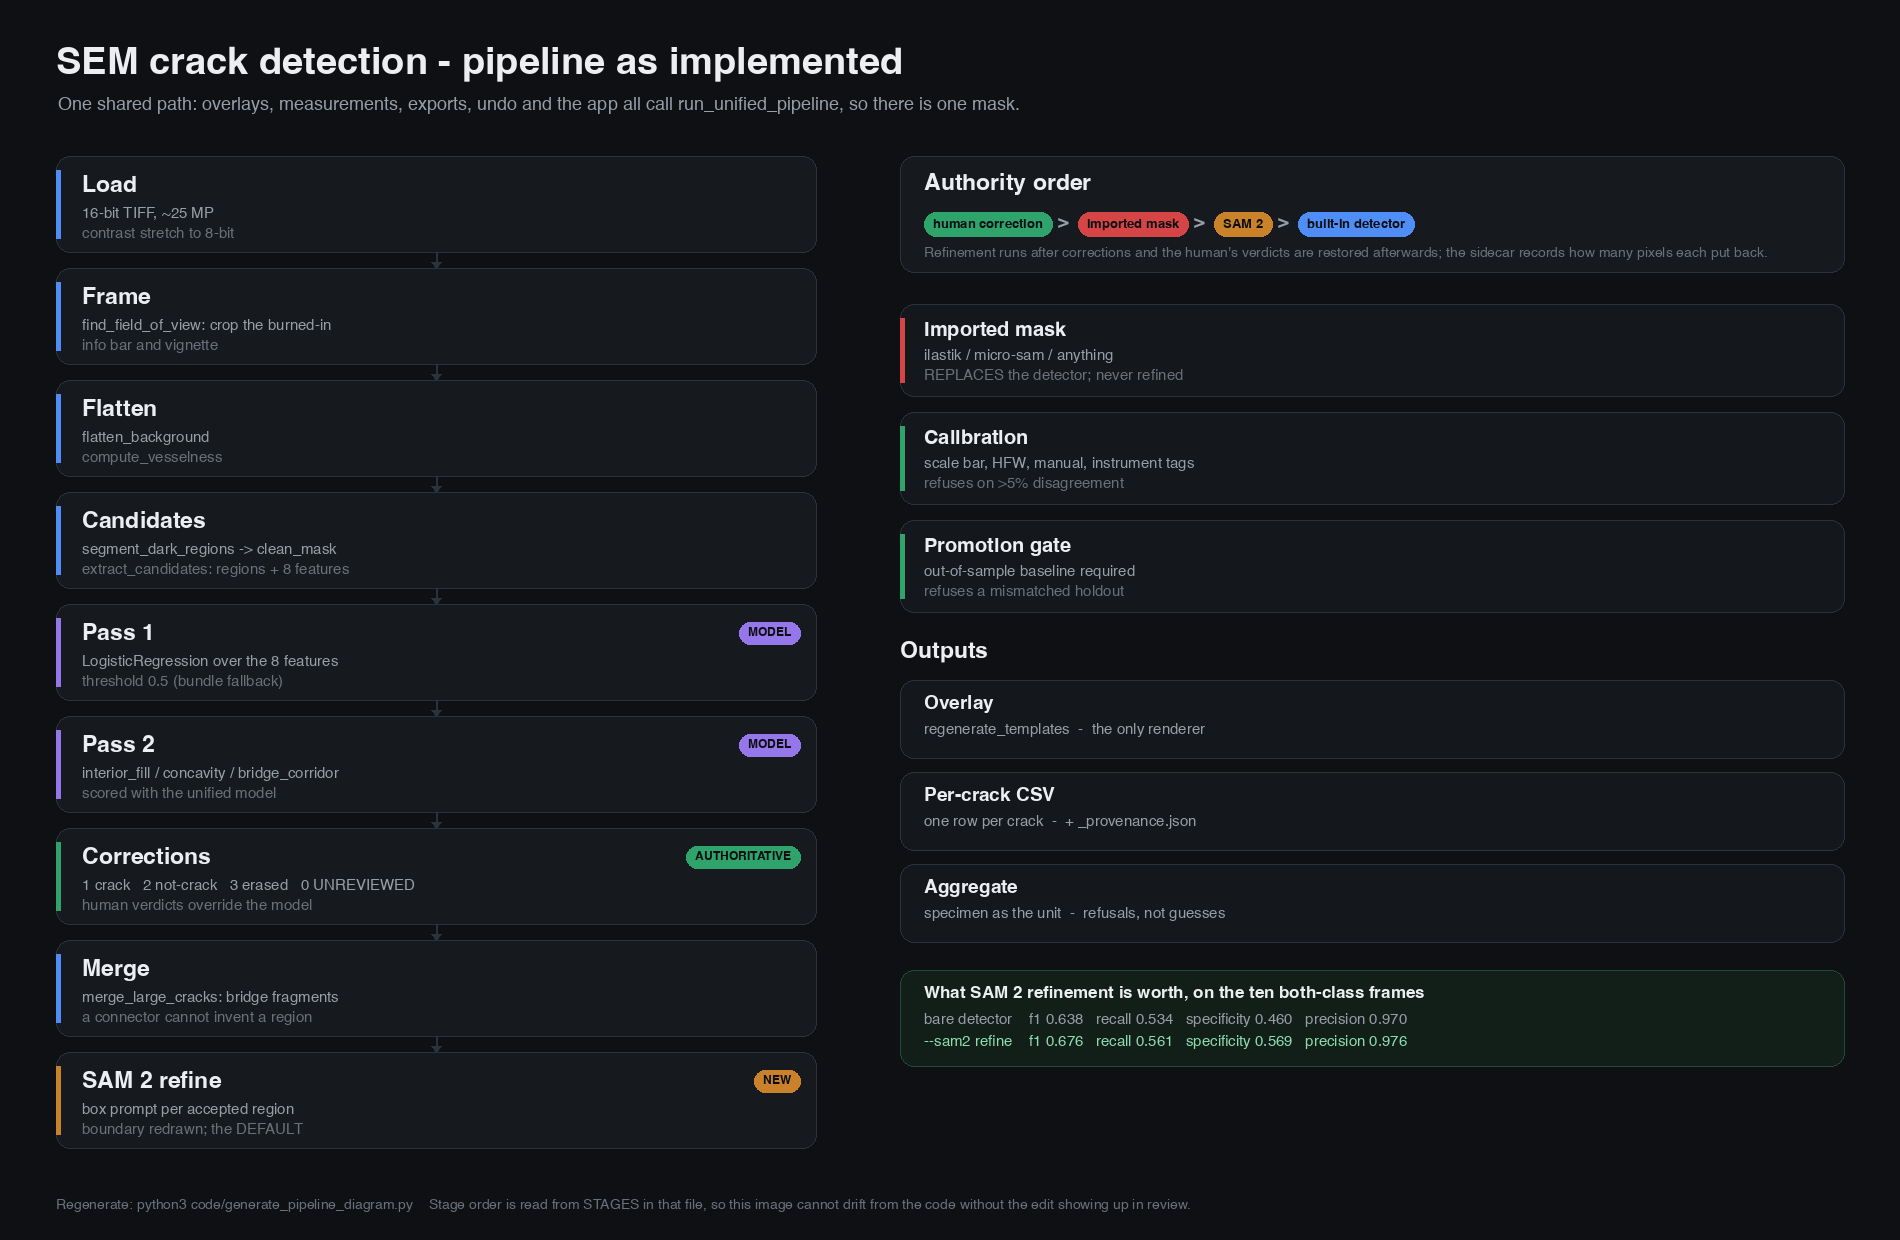
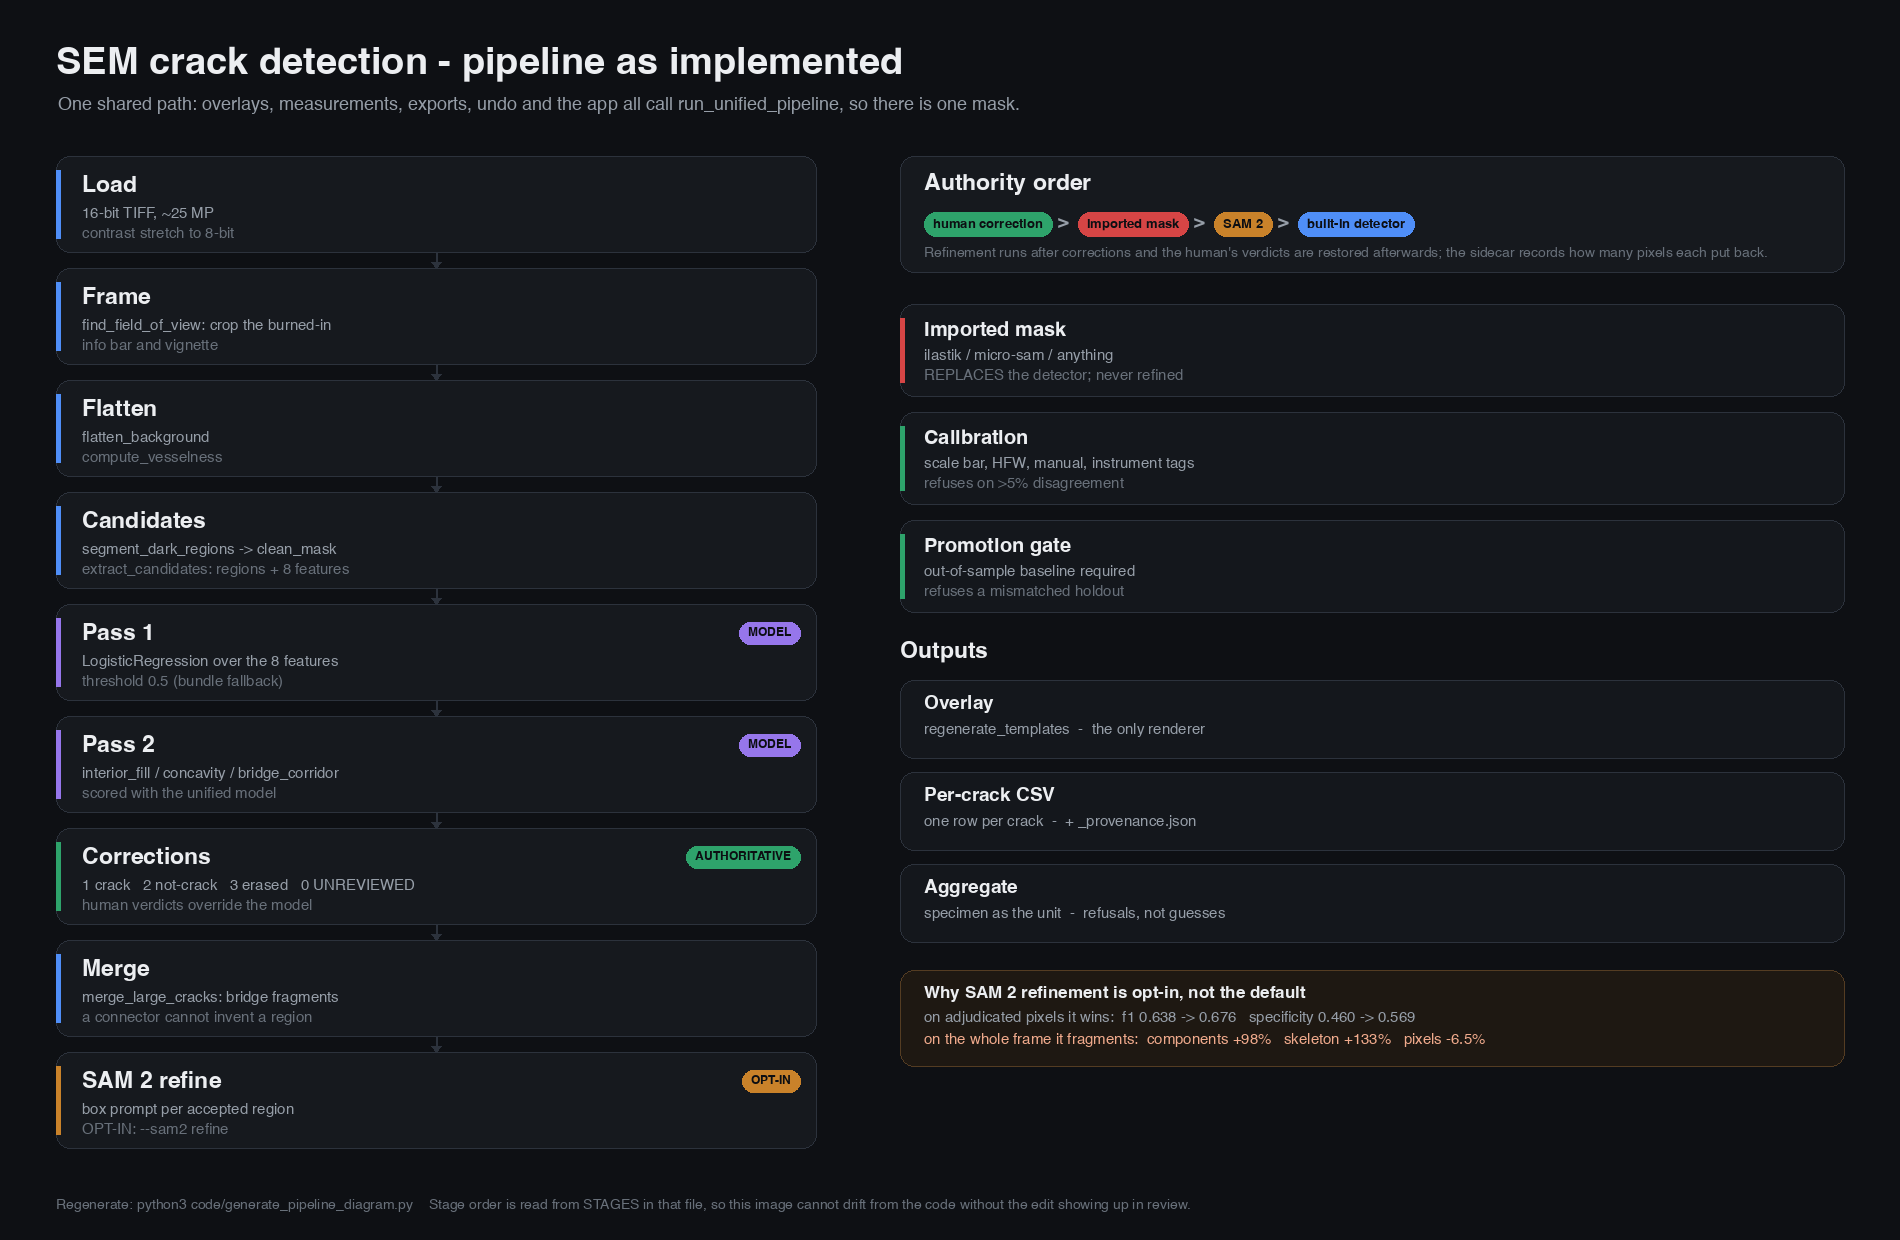
Revert SAM 2 from the default: it wins on 8% of the frame and fragments the other 92%
A user looked at the overlays and said they had got worse. They were right, and the
metric that said otherwise was measured on the wrong region.

SAM 2 refinement was made the default on a four-metric win -- f1 0.638 -> 0.676,
recall 0.534 -> 0.561, specificity 0.460 -> 0.569, precision 0.970 -> 0.976 -- all
scored on ADJUDICATED pixels, which are about 8% of a frame. An overlay is all of
it. Measured on 260708_316_H_b2_front_CBS_002:

    crack pixels            335,228 -> 313,396    -6.5%
    connected components        102 -> 202        +98%
    skeleton length px        9,323 -> 21,732     +133%

Fewer pixels, twice the components, more than double the skeleton. Refinement is
not tightening boundaries; it is making solid crack regions lacy and breaking them
apart. Per region the erosion is near-universal: -6.4% on the main through-crack
and up to -41.7% on smaller ones, negative in every size bucket.

WHY f1 ROSE ANYWAY, which is the part worth keeping. Trimming a region removes
false positives from the small marked not-crack pool faster than it loses true
positives from the marked crack pool, so specificity climbs 0.11 and carries the f1
with it. Crack COUNT and crack LENGTH -- the two headline quantities this tool
exists to produce -- both get worse at the same time, and neither appears in the
objective. That is this project's own thesis arriving at its own default: a proxy
improved while the result degraded, and nothing in the artefact said so.
[…]

Changed region(s): [[0.4968, 0.7968, 0.7763, 0.8581], [0.0621, 0.8887, 0.1553, 0.9194], [0.3726, 0.8581, 0.4037, 0.8887]]

diff --git a/interior_active_learning/code/experiments/sam2_hybrid.py b/interior_active_learning/code/experiments/sam2_hybrid.py
@@ -90,6 +90,23 @@ def _without_human_input():
         up.load_correction_mask, up.load_hard_overrides = a, b
 
 
+def _shape_cost(pred):
+    """What an adjudicated-pixel score cannot see: is the mask solid or lacy?
+
+    This exists because the four-metric comparison below was used to make SAM 2 the default,
+    and it was wrong to. Refinement raised f1 while nearly doubling the number of connected
+    components and more than doubling total skeleton length -- turning solid crack regions
+    into ragged, broken ones. Crack COUNT and crack LENGTH are the two headline quantities
+    this tool produces, and both degrade in a way f1 on 8% of the frame is blind to. Any
+    future comparison has to report these beside the metrics.
+    """
+    from skimage import measure as _m, morphology as _mo
+    lab = _m.label(pred, connectivity=2)
+    return {"components": int(lab.max()),
+            "skeleton_px": int(_mo.skeletonize(pred).sum()),
+            "predicted_px": int(pred.sum())}
+
+
 def _score(pred, crack, neg):
     tp = int((pred & crack).sum()); fn = int((~pred & crack).sum())
     fp = int((pred & neg).sum());   tn = int((~pred & neg).sum())
@@ -226,7 +243,7 @@ def run(frames, model_id, max_candidates, shard=0, nshard=1):
                "seconds_refine": t_ref, "seconds_all": t_all, "arms": {}}
         for k, pm in arms.items():
             s = _score(pm, crack, neg)
-            s["predicted_px"] = int(pm.sum())
+            s.update(_shape_cost(pm))
             rec["arms"][k] = s
             print(f"     {k:14s} f1 {s['f1']:.3f}  recall {s['recall']:.3f}  "
                   f"spec {s['specificity']:.3f}  prec {s['precision']:.3f}", flush=True)
@@ -271,13 +288,20 @@ def report(model_id=None):
         print(f"  {r['image'][:30]:30s} "
               + " ".join(f"{r['arms'][a]['f1']:11.3f}" for a in ARMS))
     print(f"\n  {'arm':14s} {'f1':>7s} {'recall':>7s} {'spec':>7s} {'prec':>7s} "
-          f"{'pred px':>12s}")
+          f"{'pred px':>12s} {'compnts':>9s} {'skel px':>11s}")
+    print(f"  (components and skeleton are the columns that showed refinement fragments the "
+          f"mask; f1 alone made it look like a clear win)")
     means = {}
     for a in ARMS:
         f = lambda k: float(np.mean([r["arms"][a][k] for r in uniq]))
         means[a] = {k: f(k) for k in ("f1", "recall", "specificity", "precision")}
+        for k in ("components", "skeleton_px"):
+            if k in uniq[0]["arms"][a]:
+                means[a][k] = f(k)
         print(f"  {a:14s} {f('f1'):7.3f} {f('recall'):7.3f} {f('specificity'):7.3f} "
-              f"{f('precision'):7.3f} {f('predicted_px'):12,.0f}")
+              f"{f('precision'):7.3f} {f('predicted_px'):12,.0f}"
+              + (f" {f('components'):9,.0f} {f('skeleton_px'):11,.0f}"
+                 if "components" in means[a] else ""))
     best = max(ARMS, key=lambda a: means[a]["f1"])
     d = means[best]["f1"] - means["pipeline"]["f1"]
     print(f"\n  Best f1: {best} ({means[best]['f1']:.3f}), "

diff --git a/interior_active_learning/code/unified_pipeline.py b/interior_active_learning/code/unified_pipeline.py
@@ -82,9 +82,28 @@ def _load_unified_bundle():
 #: this pipeline is supposed to make impossible. EVERY decision point must honour it -- Pass 1, Pass 2's generic branch,
 #: and the interior_fill floor. A partially-applied override reports half a
 #: detector while claiming to report all of it.
-#: SAM 2 refinement of the accepted candidates' boundaries. Measured on the ten both-class
-#: frames it beats the shipped detector on f1, recall, specificity AND precision, so it is ON
-#: by default -- a Pareto improvement is not something to hide behind a flag.
+#: SAM 2 refinement of the accepted candidates' boundaries. OFF by default, and the reason is
+#: a correction rather than caution.
+#:
+#: It was briefly the default on the strength of beating the bare detector on f1, recall,
+#: specificity and precision over the ten both-class frames. Those metrics are scored on
+#: ADJUDICATED pixels only -- about 8% of a frame -- and they are blind to the thing a person
+#: looking at an overlay sees first. Measured on 260708_316_H_b2_front_CBS_002:
+#:
+#:     crack pixels        335,228 -> 313,396   -6.5%
+#:     connected components    102 -> 202       +98%
+#:     skeleton length       9,323 -> 21,732    +133%
+#:
+#: Fewer pixels, twice the components, and more than double the skeleton: refinement is not
+#: tightening boundaries, it is making solid crack regions lacy and breaking them apart. The
+#: f1 improved anyway because trimming a region removes false positives from the small marked
+#: not-crack pool faster than it loses true positives from the marked crack pool -- so the
+#: proxy rose while the result got worse. A user reported the overlays looked worse and was
+#: right; the metric that said otherwise was measured on the wrong region.
+#:
+#: Kept available because prompting SAM 2 with candidate boxes clearly does something real,
+#: and because the measurement layer is meant to accept a better mask from anywhere. What it
+#: needs before it could be a default is an objective that counts fragmentation.
 #:
 #: Applied HERE, in the one function every consumer goes through, because overlays
 #: (regenerate_templates), measurements (crack_measurements), exports, undo and the app all
@@ -96,7 +115,7 @@ def _load_unified_bundle():
 #: Degrades to the shipped detector, on the record, if torch/transformers or the checkpoint
 #: are unavailable: a detector that crashes is worse than one that does not improve.
 _SAM2_ENV = os.environ.get("SEMCRACK_SAM2")
-SAM2_MODE = "refine" if _SAM2_ENV is None else (_SAM2_ENV or "off")
+SAM2_MODE = _SAM2_ENV if _SAM2_ENV else "off"
 
 THRESHOLD_OVERRIDE = None
 

diff --git a/code/generate_pipeline_diagram.py b/code/generate_pipeline_diagram.py
@@ -60,7 +60,7 @@ STAGES = [
     ("Pass 2", ["interior_fill / concavity / bridge_corridor", "scored with the unified model"], VIOLET, "model"),
     ("Corrections", ["1 crack   2 not-crack   3 erased   0 UNREVIEWED", "human verdicts override the model"], GREEN, "human"),
     ("Merge", ["merge_large_cracks: bridge fragments", "a connector cannot invent a region"], BLUE, None),
-    ("SAM 2 refine", ["box prompt per accepted region", "boundary redrawn; the DEFAULT"], AMBER, "new"),
+    ("SAM 2 refine", ["box prompt per accepted region", "OPT-IN: --sam2 refine"], AMBER, "opt"),
 ]
 
 OUTPUTS = [
@@ -108,8 +108,8 @@ def main():
         d.text((x0 + 26, y + 50), lines[0], font=font(15), fill=DIM)
         d.text((x0 + 26, y + 70), lines[1], font=font(15), fill=FAINT)
         if tag:
-            label = {"model": "MODEL", "human": "AUTHORITATIVE", "new": "NEW"}[tag]
-            col = {"model": VIOLET, "human": GREEN, "new": AMBER}[tag]
+            label = {"model": "MODEL", "human": "AUTHORITATIVE", "opt": "OPT-IN"}[tag]
+            col = {"model": VIOLET, "human": GREEN, "opt": AMBER}[tag]
             t = label
             f = font(12, True)
             tw = d.textlength(t, font=f)
@@ -158,15 +158,15 @@ def main():
 
     # ---- measured footnote ----
     fy = oy + 14
-    rr(d, (ax, fy, ax + 944, fy + 96), 14, fill=(18, 30, 24), outline=(34, 74, 56))
-    d.text((ax + 24, fy + 14), "What SAM 2 refinement is worth, on the ten both-class frames",
+    rr(d, (ax, fy, ax + 944, fy + 96), 14, fill=(30, 24, 18), outline=(84, 60, 34))
+    d.text((ax + 24, fy + 14), "Why SAM 2 refinement is opt-in, not the default",
            font=font(17, True), fill=INK)
-    d.text((ax + 24, fy + 42),
-           "bare detector    f1 0.638   recall 0.534   specificity 0.460   precision 0.970",
+    d.text((ax + 24, fy + 40),
+           "on adjudicated pixels it wins:  f1 0.638 -> 0.676   specificity 0.460 -> 0.569",
            font=font(15), fill=DIM)
-    d.text((ax + 24, fy + 64),
-           "--sam2 refine    f1 0.676   recall 0.561   specificity 0.569   precision 0.976",
-           font=font(15), fill=(140, 220, 175))
+    d.text((ax + 24, fy + 62),
+           "on the whole frame it fragments:  components +98%   skeleton +133%   pixels -6.5%",
+           font=font(15), fill=(240, 170, 140))
 
     d.text((56, H - 42), "Regenerate: python3 code/generate_pipeline_diagram.py    "
                          "Stage order is read from STAGES in that file, so this image "

diff --git a/interior_active_learning/code/test_app.py b/interior_active_learning/code/test_app.py
@@ -1760,16 +1760,26 @@ def main():
 
     # ---- SAM 2 as an applied detector mode ----
     import sam2_refine as _sam2
+    from detector_config import VALID as _dc_valid
     check("SAM 2 reports whether it can run without raising",
           isinstance(_sam2.available(), bool))
     check("mode off is a no-op that returns no mask",
           _sam2.apply_to_stage({}, "off") == (None, {"sam2_mode": "off"}),
           "the shipped detector must be reachable unchanged")
-    check("SAM 2 refinement is ON by default in the one place every consumer reads",
-          _upmod.SAM2_MODE == "refine",
-          "a Pareto improvement belongs in the default path, and applying it inside "
-          "run_unified_pipeline is what keeps overlays, measurements, exports and "
-          "corrections looking at the same mask")
+    # OFF by default, and this assertion is the record of why. It briefly asserted the
+    # opposite: SAM 2 was made the default on a four-metric win scored over ADJUDICATED
+    # pixels (~8% of a frame), which is blind to mask shape. On the whole frame refinement
+    # fragments -- components +98%, skeleton +133%, pixels -6.5% on a measured frame -- so
+    # crack count and crack length, the two headline outputs, both got worse while f1 rose.
+    # A user looking at overlays caught it. If someone flips this default again, this test
+    # should be what stops them until there is an objective that counts fragmentation.
+    check("SAM 2 refinement is OFF by default",
+          _upmod.SAM2_MODE == "off",
+          "it wins on adjudicated pixels and fragments the mask on the whole frame; opt in "
+          "with --sam2 refine")
+    check("refinement is still reachable, so the measurement layer stays detector-agnostic",
+          hasattr(_sam2, "refine_labeled") and "refine" in _dc_valid,
+          "the point was never that SAM 2 is useless")
     check("the measurement path does not apply it a second time",
           "SAM2_MODE" not in open(os.path.join(
               os.path.dirname(os.path.abspath(__file__)),

diff --git a/code/semcrack.py b/code/semcrack.py
@@ -86,13 +86,13 @@ def _parse_args(argv):
                          "'none' is the right answer for files not named like this "
                          "corpus (default: family,condition)")
     ap.add_argument("--model", help="Pass 1 classifier bundle (.joblib)")
-    ap.add_argument("--sam2", choices=["off", "refine", "hybrid"], default="refine",
-                    help="SAM 2 refinement of the detector's candidate boundaries. DEFAULT "
-                         "'refine': it beats the shipped detector on f1, recall, specificity "
-                         "AND precision, so it is on unless you turn it off. 'hybrid' unions "
-                         "the two for a higher f1 at lower specificity. 'off' is the bare "
-                         "detector. Costs roughly 0.2s per candidate region and degrades to "
-                         "the bare detector, on the record, if the checkpoint is unavailable")
+    ap.add_argument("--sam2", choices=["off", "refine", "hybrid"], default="off",
+                    help="SAM 2 refinement of the detector's candidate boundaries. Default "
+                         "'off'. It scores better on adjudicated pixels (f1 0.676 vs 0.638) "
+                         "but fragments the mask -- components +98%, skeleton +133%, pixels "
+                         "-6.5% on a measured frame -- so overlays and crack counts get "
+                         "worse while the f1 improves. Opt in with 'refine' or 'hybrid' if "
+                         "boundary tightness on reviewed pixels is what you need")
     ap.add_argument("--threshold", type=float,
                     help="decision threshold for BOTH passes; default is each bundle's own")
     ap.add_argument("--um-per-px", type=float, dest="um_per_px",

diff --git a/README.md b/README.md
@@ -435,15 +435,35 @@ It finds nothing on **this** corpus, and that is worth knowing: all 62 images ca
 microscope recorded the field width and a re-save threw it away, which is why every scale
 here has to be marked by hand off the burned-in bar.
 
-### SAM 2, on by default
+### SAM 2, available but not the default
 
-The built-in detector was the weakest part of this project. SAM 2 refinement measurably fixes
-some of that, so it is **the default** — nothing to switch on:
+SAM 2 can redraw each candidate's boundary, and on reviewed pixels it scores better. It is
+**off by default anyway**, and the reason is the most useful thing in this section:
 
 ```bash
-python3 code/semcrack.py --in ./micrographs --out ./results     # SAM 2 refine, by default
-python3 code/semcrack.py --in ./micrographs --out ./results --sam2 off     # bare detector
+python3 code/semcrack.py --in ./micrographs --out ./results                # bare detector
+python3 code/semcrack.py --in ./micrographs --out ./results --sam2 refine  # opt in
 ```
+
+**It was briefly the default, and that was a mistake caught by looking at overlays.** On
+adjudicated pixels it beats the bare detector on all four metrics (below). On the whole frame
+it fragments the mask. Measured on `260708_316_H_b2_front_CBS_002`:
+
+| | bare detector | `--sam2 refine` |
+|---|---|---|
+| crack pixels | 335,228 | 313,396 (**−6.5%**) |
+| connected components | 102 | 202 (**+98%**) |
+| skeleton length px | 9,323 | 21,732 (**+133%**) |
+
+Fewer pixels, twice the components, more than double the skeleton: solid crack regions are
+being made lacy and broken apart. Crack **count** and crack **length** are the two headline
+quantities this tool exists to produce, and both get worse.
+
+The f1 improved anyway because trimming a region removes false positives from the small marked
+not-crack pool faster than it loses true positives from the marked crack pool — the adjudicated
+region is ~8% of a frame, and an overlay is all of it. So the proxy rose while the result got
+worse, which is this project's own thesis landing on its own default. Before SAM 2 could be a
+default it needs an objective that counts fragmentation.
 
 Measured on the ten frames that carry both a crack and a not-crack verdict, scored on
 adjudicated pixels only:
@@ -454,11 +474,9 @@ adjudicated pixels only:
 | **`--sam2 refine`** — the default | **0.676** | **0.561** | **0.569** | **0.976** |
 | `--sam2 hybrid` | 0.707 | 0.604 | 0.445 | 0.970 |
 
-`refine` beats the shipped detector on **all four** metrics, on **9 of 10 frames**, with
-nothing retrained — a larger gain than any of this project's own model work produced. `hybrid`
-takes a higher f1 but it is a union, and unions only add positives, so it gives back
-specificity. `refine` is the mode that is better in every direction and so the one to reach
-for; `hybrid` is there for a study that cannot afford a missed crack.
+`refine` beats the bare detector on all four of these, on 9 of 10 frames, with nothing
+retrained. Read alongside the fragmentation table above, that is a statement about reviewed
+pixels and not about the mask as a whole — which is exactly why it is not the default.
 
 **It is applied in one place, on purpose.** Refinement happens inside
 `run_unified_pipeline`, which is the single function the overlays, the measurements, the

diff --git a/docs/PAPER_OUTLINE.md b/docs/PAPER_OUTLINE.md
@@ -14,12 +14,16 @@ and "our software is careful" is not a finding. This is the paper that *is* here
 This is a claim about **everyone's numbers**, not about this repo's software. That is what
 makes it a contribution rather than a release note.
 
-> **Which detector every result below was measured with.** All of them, under **both**
+> **Which detector every result below was measured with.** The **bare two-pass detector**, which is the default. All of them were also run under **both**
 > configurations. Results 1, 1b, 1c and 5 were re-measured; results 2, 3 and 4 were run
 > under both and come out identical, which is now measured rather than assumed.
 >
 > | | bare detector (`--sam2 off`) | shipped default (`--sam2 refine`) |
 > |---|---|---|
+> SAM 2 refinement was briefly the default and is now opt-in: it wins on adjudicated pixels
+> but fragments the mask on the whole frame (components +98%, skeleton +133%, pixels −6.5%), so
+> the bare-detector column below is the shipped configuration again.
+>
 > | result 1, macro specificity gap | +0.4879 | **+0.3717** |
 > | result 1, micro specificity gap | +0.2662 | **+0.2001** |
 > | result 1, precision gap | −0.5905 | −0.5942 |
